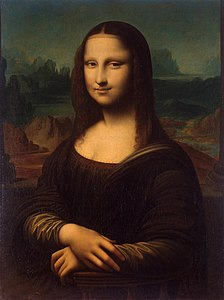
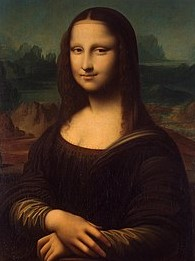
Images added

diff --git a/code/main.py b/code/main.py
@@ -5,7 +5,6 @@ from algorithm import *
 from plotclusters3D import *
 import matplotlib.pyplot as plt
 import time
-import cv2
 
 
 def main():
@@ -14,24 +13,23 @@ def main():
     # data = data.transpose()
     # labels, peaks = meanshift_opt(data, 2, 4)
     # plotclusters3D(data, labels, peaks)
-    # plt.savefig('../experiments/3dplots/pts3dplot.png')
+    # plt.savefig('../experiments/plots3D/pts3dplot.png')
     # plt.show()
 
     # image = io.imread('../images/181091.jpg')
     # image_2d = np.reshape(image, (-1, 3))
     # labels, peaks = meanshift_opt(image_2d, 30, 2)
     # plotclusters3D(image_2d, labels, peaks)
-    # plt.savefig('../experiments/3dplots/181091_r10_c4.png')
+    # plt.savefig('../experiments/plots3D/181091_r10_c4.png')
     # plt.show()
 
     t0 = time.time()
     image = io.imread('../images/monalisa.jpg')
-    image_blur = cv2.blur(image,(20,20))
-    segmIm, labels, peaks = imSegment(image_blur, 30, 4, '5D')
+    segmIm, labels, peaks = imSegment(image, 10, 8, '3D')
     t1 = time.time()
     print(t1 - t0)
     io.imshow(segmIm)
-    plt.savefig('../experiments/monalisa_blur_segm_r10_c4_3d.png')
+    plt.savefig('../experiments/monalisa_r10_c8_3d.png')
     io.show()
 
 

diff --git a/code/plotclusters3D.py b/code/plotclusters3D.py
@@ -22,7 +22,6 @@ def plotclusters3D(data, labels, peaks):
         # color = np.random.uniform(0, 1, 3)
         # TODO: instead of random color, you can use peaks when you work on actual images
         color = peak
-        print(idx)
         cluster = data[np.where(labels == idx)[0]].T
         ax.scatter(cluster[0], cluster[1], cluster[2], c=[color], s=.5)
     fig.show()
